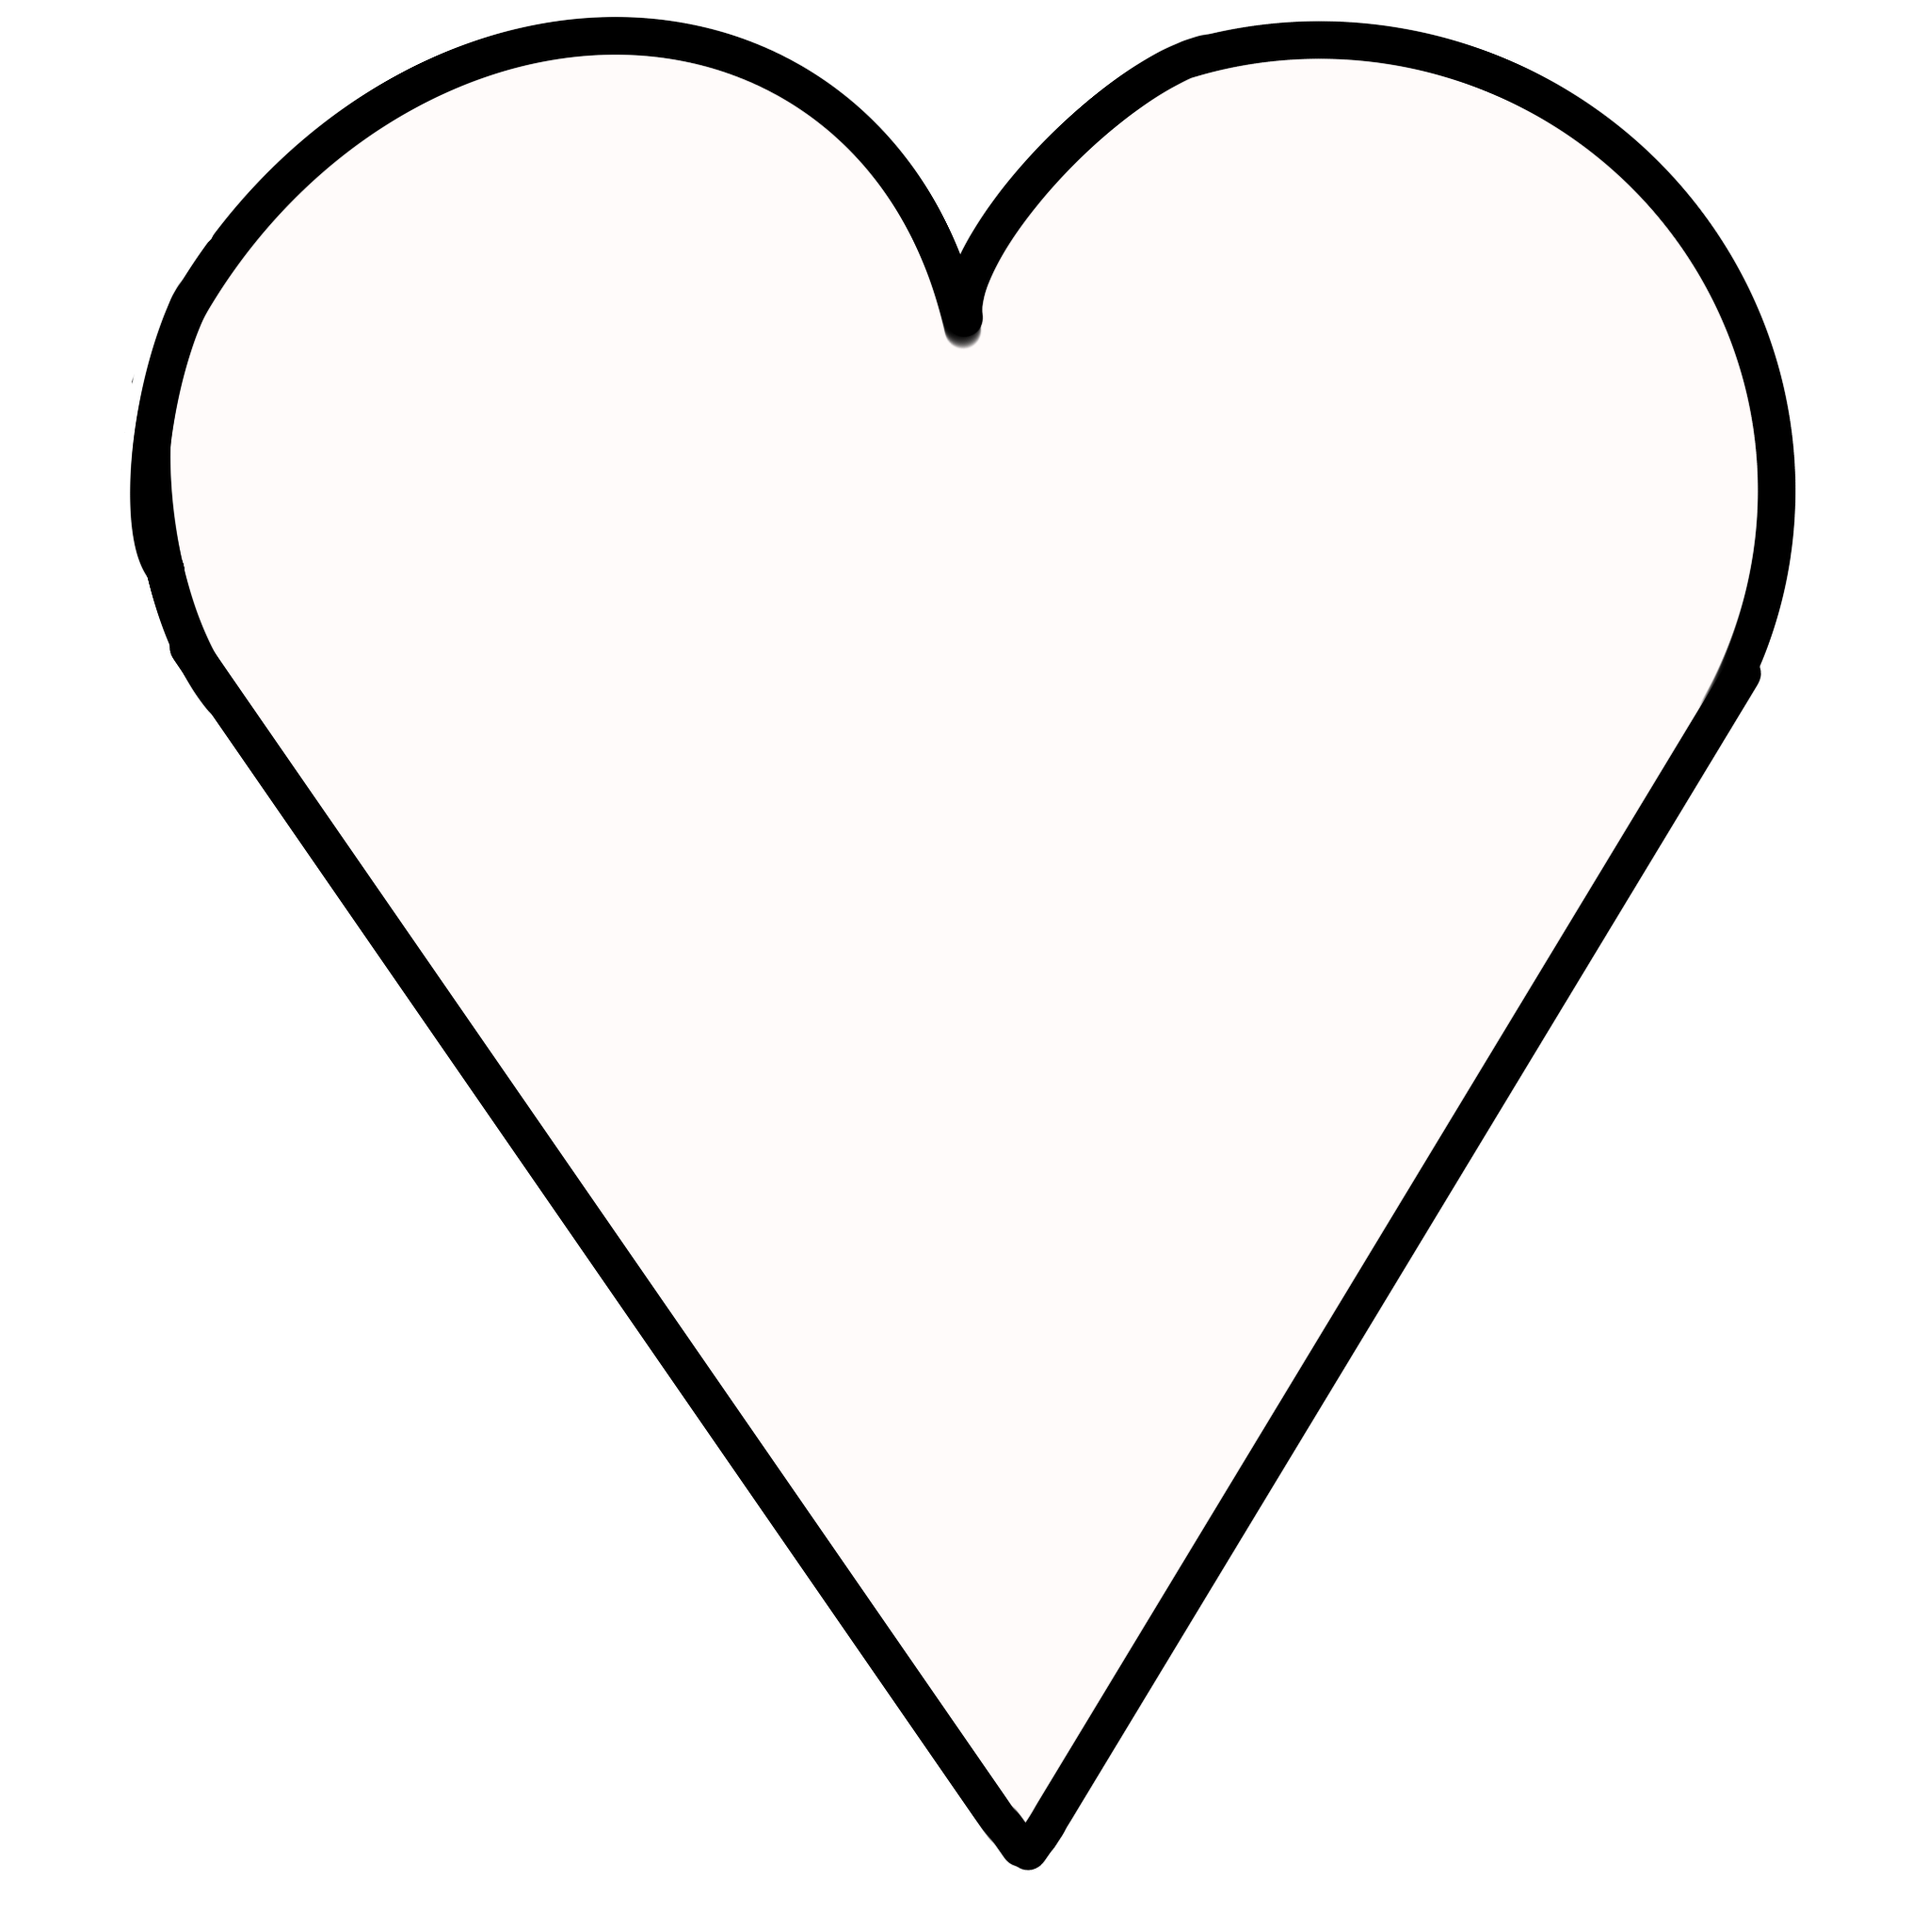
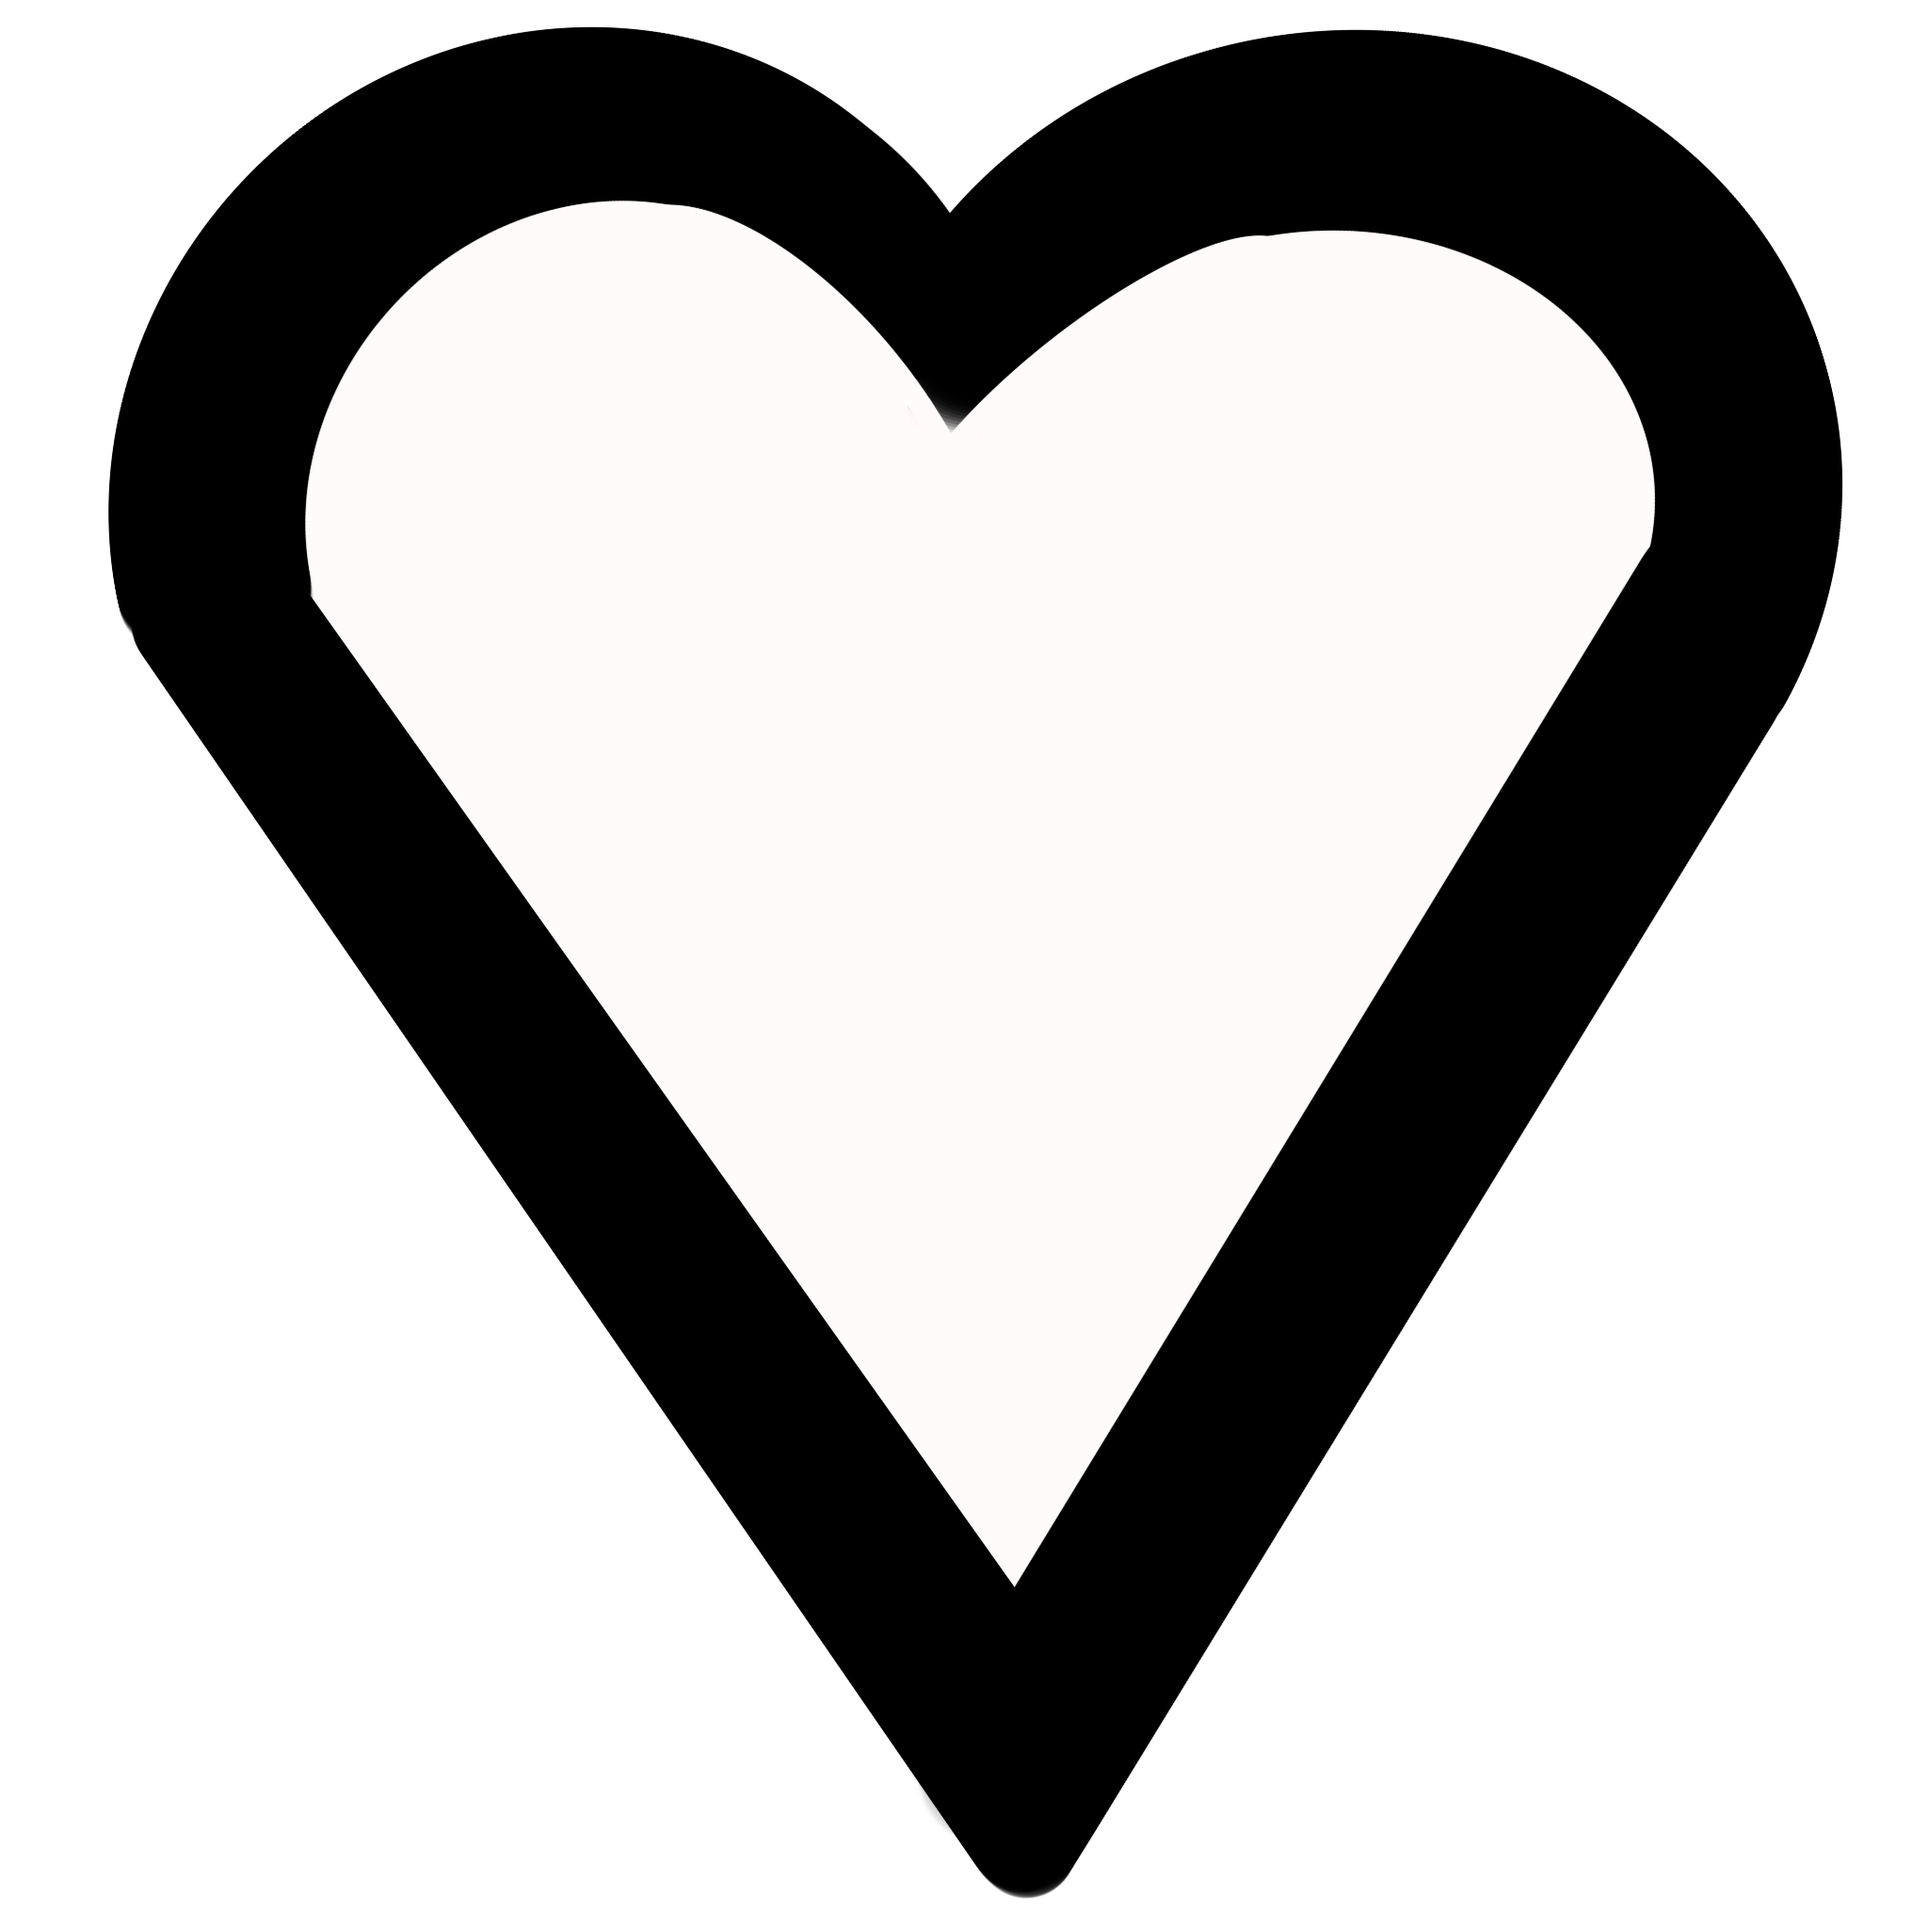
New png
weroihergoiuh

Changed region(s): [[0.0312, 0.0, 0.9688, 1.0]]

diff --git a/src/uni_components/ClubGrid.jsx b/src/uni_components/ClubGrid.jsx
@@ -1,7 +1,7 @@
 import React, { useState } from 'react';
 import './ClubGrid.css';
 import heartEmpty from '/src/assets/empty_heart.png';
-import heartFull from '/src/assets/heart.png';
+import heartFull from '/src/assets/full_heart.png';
 
 export const ClubGrid = ({ result }) => {
   const [expanded, setExpanded] = useState(false);
